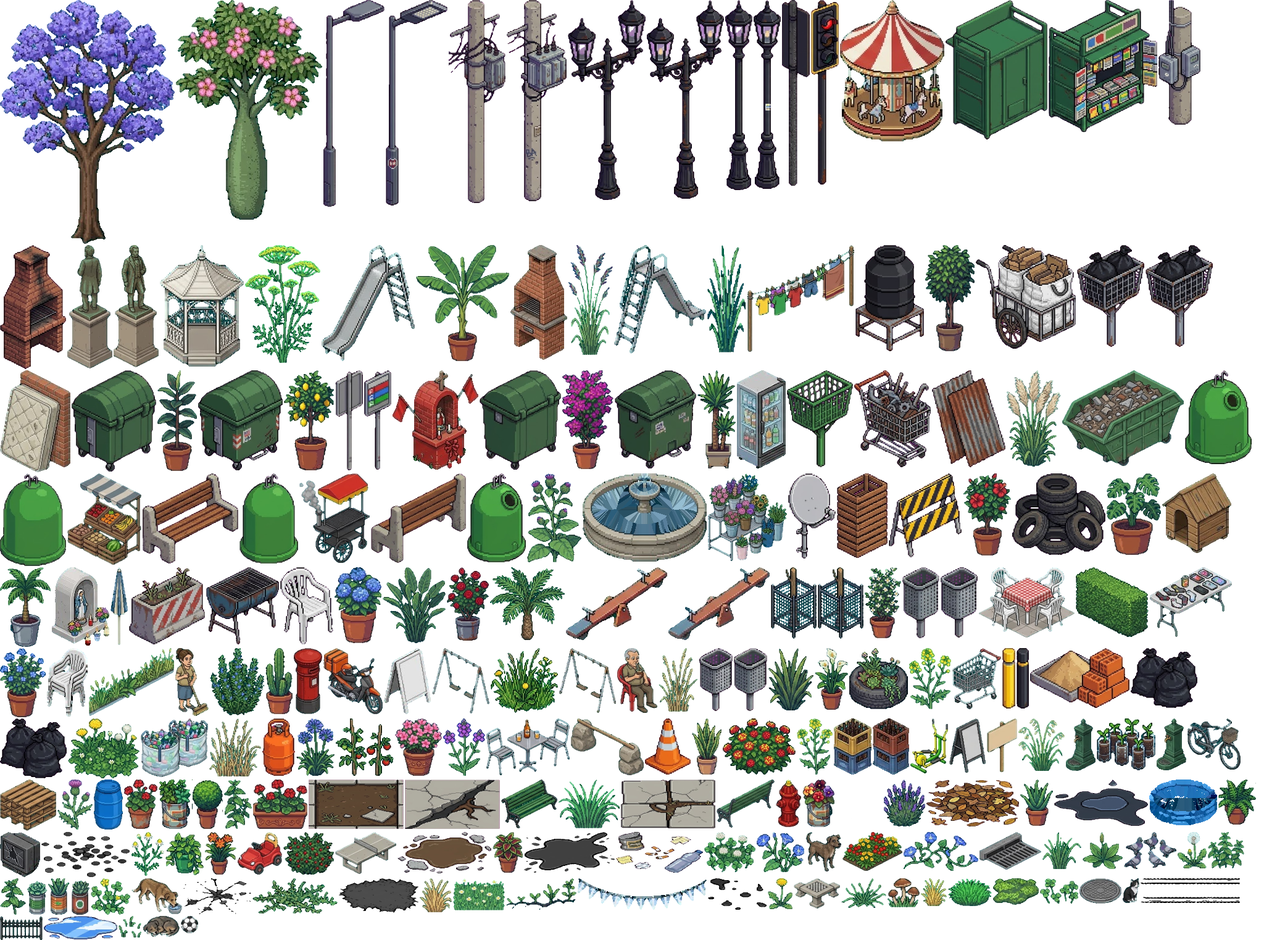
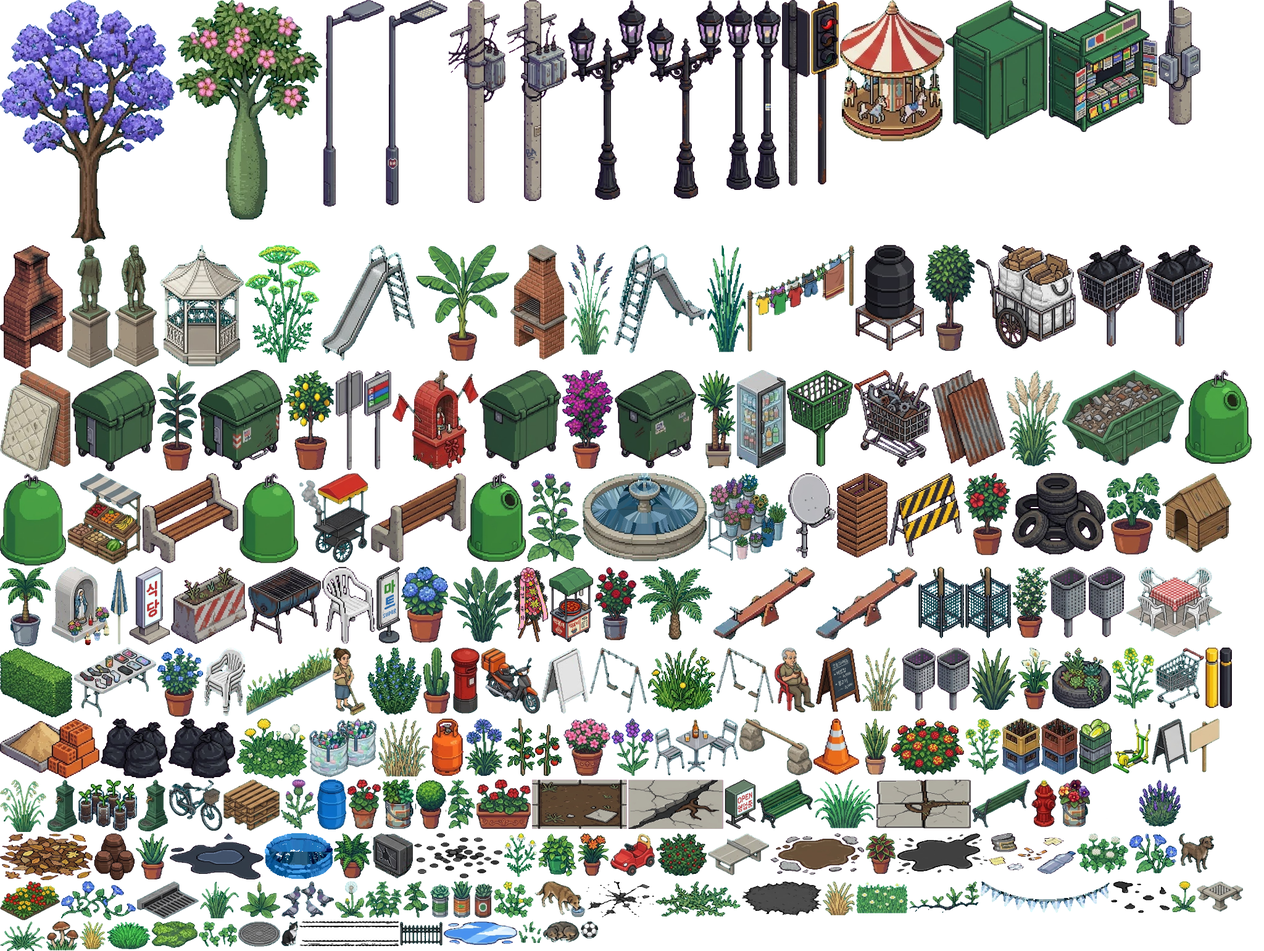
Barrio Coreano: carteles de vereda, pizarras, tinajas de kimchi, repollos, corona de flores y carrito de tteokbokki
Ocho props de Gemini (coreano_01 y coreano_02) frente a los locales coreanos de Av. Carabobo.

Claude-Session: https://claude.ai/code/session_015eL21ADLwrYXVptdMb8b8s

diff --git a/editor/recursos/hd_props.js b/editor/recursos/hd_props.js
@@ -1,2 +1,2 @@
 // props HD (Gemini, limpiados a 30 px/m con herramientas/pixelar.py; armado con herramientas/armar_hd.py)
-const HD_ASSETS = {"escala": 0.6, "frames": {"antena": {"x": 1277, "y": 767, "w": 77, "h": 138, "ox": 38, "oy": 132, "e": 0.173}, "b_arco": {"x": 925, "y": 1164, "w": 118, "h": 92, "ox": 59, "oy": 87, "e": 0.3706}, "b_autito": {"x": 385, "y": 1348, "w": 72, "h": 69, "ox": 36, "oy": 64, "e": 0.3706}, "b_bolsones": {"x": 228, "y": 1164, "w": 109, "h": 95, "ox": 54, "oy": 90, "e": 0.3706}, "b_cartel_vende": {"x": 1599, "y": 1164, "w": 49, "h": 87, "ox": 24, "oy": 82, "e": 0.3706}, "b_chango_vacio": {"x": 1543, "y": 1050, "w": 79, "h": 99, "ox": 39, "oy": 94, "e": 0.3706}, "b_jaula": {"x": 1325, "y": 919, "w": 74, "h": 116, "ox": 37, "oy": 107, "e": 0.2672}, "b_mesa_patio": {"x": 1586, "y": 919, "w": 155, "h": 114, "ox": 77, "oy": 109, "e": 0.3706}, "b_mujer_barre": {"x": 284, "y": 1050, "w": 54, "h": 110, "ox": 27, "oy": 105, "e": 0.3706}, "b_pallets": {"x": 0, "y": 1263, "w": 91, "h": 83, "ox": 45, "oy": 78, "e": 0.3706}, "b_pelota": {"x": 293, "y": 1484, "w": 28, "h": 28, "ox": 14, "oy": 23, "e": 0.3706}, "b_perro_bebe": {"x": 213, "y": 1423, "w": 82, "h": 58, "ox": 41, "oy": 53, "e": 0.3706}, "b_sombrilla": {"x": 179, "y": 919, "w": 28, "h": 126, "ox": 14, "oy": 121, "e": 0.3706}, "b_tacho_azul": {"x": 152, "y": 1263, "w": 47, "h": 81, "ox": 23, "oy": 76, "e": 0.3706}, "b_tendedero": {"x": 1210, "y": 397, "w": 174, "h": 173, "ox": 87, "oy": 168, "e": 0.3706}, "b_viejo_mate": {"x": 1000, "y": 1050, "w": 65, "h": 105, "ox": 32, "oy": 100, "e": 0.3706}, "bolsas_0": {"x": 1832, "y": 1050, "w": 108, "h": 97, "ox": 54, "oy": 88, "e": 0.1635}, "bolsas_1": {"x": 0, "y": 1164, "w": 108, "h": 97, "ox": 54, "oy": 88, "e": 0.1635}, "c_bici": {"x": 1924, "y": 1164, "w": 86, "h": 83, "ox": 43, "oy": 79, "e": 0.4173}, "c_buzon": {"x": 476, "y": 1050, "w": 46, "h": 107, "ox": 23, "oy": 103, "e": 0.4173}, "c_chori": {"x": 485, "y": 767, "w": 114, "h": 145, "ox": 57, "oy": 141, "e": 0.4173}, "c_gato": {"x": 1819, "y": 1423, "w": 27, "h": 40, "ox": 13, "oy": 36, "e": 0.4173}, "c_hidrante": {"x": 1257, "y": 1263, "w": 41, "h": 77, "ox": 20, "oy": 73, "e": 0.4173}, "c_mesa_bar": {"x": 788, "y": 1164, "w": 135, "h": 92, "ox": 67, "oy": 88, "e": 0.4173}, "c_moto": {"x": 524, "y": 1050, "w": 96, "h": 107, "ox": 48, "oy": 103, "e": 0.4173}, "c_palomas": {"x": 1821, "y": 1348, "w": 85, "h": 60, "ox": 42, "oy": 56, "e": 0.4173}, "c_perro": {"x": 1305, "y": 1348, "w": 58, "h": 64, "ox": 29, "oy": 60, "e": 0.4173}, "c_perro_duerme": {"x": 231, "y": 1484, "w": 60, "h": 34, "ox": 30, "oy": 30, "e": 0.4173}, "c_puesto_flores": {"x": 1147, "y": 767, "w": 128, "h": 142, "ox": 64, "oy": 138, "e": 0.4173}, "c_puesto_frutas": {"x": 109, "y": 767, "w": 120, "h": 148, "ox": 60, "oy": 144, "e": 0.4173}, "c_rejilla": {"x": 1587, "y": 1348, "w": 100, "h": 61, "ox": 50, "oy": 57, "e": 0.4173}, "c_tapa": {"x": 1749, "y": 1423, "w": 68, "h": 41, "ox": 34, "oy": 37, "e": 0.4173}, "c_volquete": {"x": 1721, "y": 600, "w": 197, "h": 155, "ox": 98, "oy": 151, "e": 0.4173}, "cajones": {"x": 1356, "y": 767, "w": 82, "h": 137, "ox": 41, "oy": 126, "e": 0.173}, "canasto_0": {"x": 1745, "y": 397, "w": 109, "h": 165, "ox": 54, "oy": 147, "e": 0.1635}, "canasto_1": {"x": 1275, "y": 600, "w": 107, "h": 157, "ox": 53, "oy": 139, "e": 0.1635}, "canasto_2": {"x": 1856, "y": 397, "w": 109, "h": 165, "ox": 54, "oy": 147, "e": 0.1635}, "carro_cartonero": {"x": 1581, "y": 397, "w": 162, "h": 168, "ox": 81, "oy": 159, "e": 0.173}, "chango": {"x": 1384, "y": 600, "w": 124, "h": 157, "ox": 62, "oy": 133, "e": 0.173}, "chapas": {"x": 1510, "y": 600, "w": 119, "h": 157, "ox": 59, "oy": 146, "e": 0.173}, "garrafa": {"x": 425, "y": 1164, "w": 53, "h": 93, "ox": 26, "oy": 84, "e": 0.173}, "gd_aceite": {"x": 849, "y": 1348, "w": 147, "h": 66, "ox": 73, "oy": 33, "e": 0.1469}, "gd_aire": {"x": 1708, "y": 1263, "w": 152, "h": 75, "ox": 76, "oy": 37, "e": 0.0713}, "gd_bache": {"x": 644, "y": 1348, "w": 152, "h": 67, "ox": 76, "oy": 33, "e": 0.1188}, "gd_baldosas_rotas": {"x": 1006, "y": 1263, "w": 153, "h": 79, "ox": 76, "oy": 39, "e": 0.1412}, "gd_basura": {"x": 998, "y": 1348, "w": 141, "h": 66, "ox": 70, "oy": 33, "e": 0.1021}, "gd_charco": {"x": 71, "y": 1484, "w": 119, "h": 38, "ox": 59, "oy": 19, "e": 0.2117}, "gd_chicles": {"x": 67, "y": 1348, "w": 143, "h": 73, "ox": 71, "oy": 36, "e": 0.0758}, "gd_frenada": {"x": 1848, "y": 1423, "w": 161, "h": 40, "ox": 80, "oy": 20, "e": 0.2907}, "gd_gotas": {"x": 1147, "y": 1423, "w": 95, "h": 51, "ox": 47, "oy": 25, "e": 0.0952}, "gd_grietas": {"x": 297, "y": 1423, "w": 110, "h": 58, "ox": 55, "oy": 29, "e": 0.2137}, "gd_hojas": {"x": 1501, "y": 1263, "w": 150, "h": 76, "ox": 75, "oy": 38, "e": 0.096}, "gd_parche": {"x": 549, "y": 1423, "w": 129, "h": 56, "ox": 64, "oy": 28, "e": 0.2233}, "gd_pozo_vereda": {"x": 500, "y": 1263, "w": 154, "h": 80, "ox": 77, "oy": 40, "e": 0.1052}, "gd_raices": {"x": 656, "y": 1263, "w": 154, "h": 80, "ox": 77, "oy": 40, "e": 0.1519}, "gd_rayuela": {"x": 1354, "y": 1263, "w": 76, "h": 77, "ox": 38, "oy": 38, "e": 0.2384}, "gomas": {"x": 1640, "y": 767, "w": 151, "h": 132, "ox": 75, "oy": 105, "e": 0.173}, "k_banderines": {"x": 936, "y": 1423, "w": 209, "h": 51, "ox": 104, "oy": 46, "e": 0.3733}, "k_cajones_botellas": {"x": 1351, "y": 1164, "w": 61, "h": 91, "ox": 30, "oy": 86, "e": 0.3733}, "k_cajones_botellas_b": {"x": 1414, "y": 1164, "w": 59, "h": 91, "ox": 29, "oy": 86, "e": 0.3733}, "k_colchon": {"x": 0, "y": 600, "w": 114, "h": 165, "ox": 57, "oy": 160, "e": 0.3733}, "k_cucha": {"x": 1883, "y": 767, "w": 112, "h": 129, "ox": 56, "oy": 124, "e": 0.3733}, "k_gauchito": {"x": 636, "y": 600, "w": 139, "h": 161, "ox": 69, "oy": 156, "e": 0.3733}, "k_heladera": {"x": 1194, "y": 600, "w": 79, "h": 159, "ox": 39, "oy": 154, "e": 0.3733}, "k_mantero": {"x": 1863, "y": 919, "w": 133, "h": 113, "ox": 66, "oy": 108, "e": 0.3733}, "k_pelopincho": {"x": 1862, "y": 1263, "w": 110, "h": 74, "ox": 55, "oy": 69, "e": 0.3733}, "k_pizarra_helado": {"x": 622, "y": 1050, "w": 76, "h": 107, "ox": 38, "oy": 102, "e": 0.3733}, "k_sillas_pila": {"x": 76, "y": 1050, "w": 66, "h": 111, "ox": 33, "oy": 106, "e": 0.3733}, "k_tele": {"x": 0, "y": 1348, "w": 65, "h": 73, "ox": 32, "oy": 68, "e": 0.3733}, "k_virgen": {"x": 84, "y": 919, "w": 93, "h": 127, "ox": 46, "oy": 122, "e": 0.3733}, "obra_material": {"x": 1669, "y": 1050, "w": 161, "h": 97, "ox": 80, "oy": 88, "e": 0.1635}, "parrilla": {"x": 0, "y": 397, "w": 107, "h": 201, "ox": 53, "oy": 172, "e": 0.1635}, "parrilla_b": {"x": 827, "y": 397, "w": 92, "h": 186, "ox": 46, "oy": 181, "e": 0.3733}, "parrilla_tambor": {"x": 334, "y": 919, "w": 118, "h": 125, "ox": 59, "oy": 108, "e": 0.173}, "pizarra_0": {"x": 1538, "y": 1164, "w": 59, "h": 88, "ox": 29, "oy": 83, "e": 0.3706}, "pl_aloe": {"x": 1653, "y": 1263, "w": 53, "h": 75, "ox": 26, "oy": 67, "e": 0.184}, "pl_azalea": {"x": 640, "y": 1164, "w": 76, "h": 93, "ox": 38, "oy": 82, "e": 0.1834}, "pl_balde": {"x": 257, "y": 1263, "w": 52, "h": 80, "ox": 26, "oy": 72, "e": 0.184}, "pl_begonias": {"x": 1300, "y": 1263, "w": 52, "h": 77, "ox": 26, "oy": 69, "e": 0.1834}, "pl_boj": {"x": 311, "y": 1263, "w": 50, "h": 80, "ox": 25, "oy": 72, "e": 0.184}, "pl_botellas": {"x": 1777, "y": 1164, "w": 95, "h": 84, "ox": 47, "oy": 67, "e": 0.1134}, "pl_cactus": {"x": 430, "y": 1050, "w": 44, "h": 107, "ox": 22, "oy": 99, "e": 0.184}, "pl_calas": {"x": 1320, "y": 1050, "w": 54, "h": 100, "ox": 27, "oy": 92, "e": 0.184}, "pl_clivia": {"x": 332, "y": 1348, "w": 51, "h": 69, "ox": 25, "oy": 61, "e": 0.184}, "pl_coleo": {"x": 798, "y": 1348, "w": 49, "h": 66, "ox": 24, "oy": 58, "e": 0.1834}, "pl_cubierta": {"x": 1376, "y": 1050, "w": 95, "h": 99, "ox": 47, "oy": 76, "e": 0.1431}, "pl_ficus": {"x": 1499, "y": 397, "w": 80, "h": 172, "ox": 40, "oy": 164, "e": 0.184}, "pl_gomero": {"x": 255, "y": 600, "w": 64, "h": 163, "ox": 32, "oy": 150, "e": 0.1834}, "pl_helecho": {"x": 1974, "y": 1263, "w": 61, "h": 73, "ox": 30, "oy": 65, "e": 0.184}, "pl_hibisco": {"x": 1560, "y": 767, "w": 78, "h": 133, "ox": 39, "oy": 120, "e": 0.1834}, "pl_hortensia": {"x": 542, "y": 919, "w": 76, "h": 123, "ox": 38, "oy": 115, "e": 0.184}, "pl_jardinera": {"x": 410, "y": 1263, "w": 88, "h": 80, "ox": 44, "oy": 72, "e": 0.1834}, "pl_jaula": {"x": 1249, "y": 919, "w": 74, "h": 116, "ox": 37, "oy": 107, "e": 0.2672}, "pl_lavanda": {"x": 1432, "y": 1263, "w": 67, "h": 76, "ox": 33, "oy": 68, "e": 0.184}, "pl_ligustrina": {"x": 1743, "y": 919, "w": 118, "h": 113, "ox": 59, "oy": 106, "e": 0.2441}, "pl_limonero": {"x": 460, "y": 600, "w": 81, "h": 162, "ox": 40, "oy": 154, "e": 0.184}, "pl_malvon": {"x": 201, "y": 1263, "w": 54, "h": 80, "ox": 27, "oy": 72, "e": 0.184}, "pl_monstera": {"x": 1793, "y": 767, "w": 88, "h": 132, "ox": 44, "oy": 116, "e": 0.1834}, "pl_palmera": {"x": 0, "y": 919, "w": 82, "h": 129, "ox": 41, "oy": 118, "e": 0.1834}, "pl_potus": {"x": 268, "y": 1348, "w": 62, "h": 70, "ox": 31, "oy": 62, "e": 0.184}, "pl_sansevieria": {"x": 1121, "y": 1164, "w": 48, "h": 91, "ox": 24, "oy": 83, "e": 0.184}, "pl_suculentas": {"x": 44, "y": 1423, "w": 101, "h": 59, "ox": 50, "oy": 53, "e": 0.1834}, "pl_trebol": {"x": 110, "y": 1164, "w": 116, "h": 97, "ox": 58, "oy": 85, "e": 0.1247}, "plm_agapanto": {"x": 480, "y": 1164, "w": 62, "h": 93, "ox": 31, "oy": 85, "e": 0.184}, "plm_banano": {"x": 674, "y": 397, "w": 151, "h": 188, "ox": 75, "oy": 172, "e": 0.1834}, "plm_cortadera": {"x": 1631, "y": 600, "w": 88, "h": 156, "ox": 44, "oy": 135, "e": 0.1834}, "plm_formio": {"x": 1245, "y": 1050, "w": 73, "h": 101, "ox": 36, "oy": 93, "e": 0.184}, "plm_jazmin": {"x": 1401, "y": 919, "w": 59, "h": 115, "ox": 29, "oy": 107, "e": 0.184}, "plm_lantana": {"x": 1171, "y": 1164, "w": 118, "h": 91, "ox": 59, "oy": 73, "e": 0.1891}, "plm_pindo": {"x": 794, "y": 919, "w": 121, "h": 118, "ox": 60, "oy": 103, "e": 0.3821}, "plm_plumbago": {"x": 0, "y": 1050, "w": 74, "h": 112, "ox": 37, "oy": 99, "e": 0.1834}, "plm_romero": {"x": 340, "y": 1050, "w": 88, "h": 109, "ox": 44, "oy": 93, "e": 0.1783}, "plm_rosal": {"x": 724, "y": 919, "w": 68, "h": 119, "ox": 34, "oy": 111, "e": 0.184}, "plm_santarita": {"x": 911, "y": 600, "w": 83, "h": 160, "ox": 41, "oy": 152, "e": 0.184}, "plm_strelitzia": {"x": 620, "y": 919, "w": 102, "h": 123, "ox": 51, "oy": 107, "e": 0.1834}, "plm_tomates": {"x": 544, "y": 1164, "w": 94, "h": 93, "ox": 47, "oy": 83, "e": 0.1895}, "plm_yuca": {"x": 1130, "y": 600, "w": 62, "h": 159, "ox": 31, "oy": 151, "e": 0.184}, "plm_yuyos": {"x": 795, "y": 1050, "w": 109, "h": 105, "ox": 54, "oy": 89, "e": 0.1776}, "pz_ajedrez": {"x": 1286, "y": 1423, "w": 75, "h": 49, "ox": 37, "oy": 45, "e": 0.4349}, "pz_aparato": {"x": 1475, "y": 1164, "w": 61, "h": 89, "ox": 30, "oy": 76, "e": 0.3835}, "pz_banco": {"x": 812, "y": 1263, "w": 91, "h": 79, "ox": 45, "oy": 74, "e": 0.358}, "pz_banco_atras": {"x": 1161, "y": 1263, "w": 94, "h": 78, "ox": 47, "oy": 73, "e": 0.3465}, "pz_bebedero": {"x": 1874, "y": 1164, "w": 48, "h": 84, "ox": 24, "oy": 76, "e": 0.247}, "pz_bebedero_atras": {"x": 1727, "y": 1164, "w": 48, "h": 85, "ox": 24, "oy": 77, "e": 0.2455}, "pz_calesita": {"x": 1361, "y": 0, "w": 169, "h": 229, "ox": 84, "oy": 225, "e": 0.4793}, "pz_cantero": {"x": 1365, "y": 1348, "w": 97, "h": 63, "ox": 48, "oy": 59, "e": 0.4663}, "pz_fuente": {"x": 944, "y": 767, "w": 201, "h": 143, "ox": 100, "oy": 139, "e": 0.403}, "pz_glorieta": {"x": 259, "y": 397, "w": 136, "h": 197, "ox": 68, "oy": 193, "e": 0.4633}, "pz_hamacas": {"x": 906, "y": 1050, "w": 92, "h": 105, "ox": 46, "oy": 90, "e": 0.4872}, "pz_hamacas_atras": {"x": 700, "y": 1050, "w": 93, "h": 106, "ox": 46, "oy": 91, "e": 0.4826}, "pz_jacaranda": {"x": 0, "y": 0, "w": 283, "h": 395, "ox": 141, "oy": 369, "e": 0.3613}, "pz_monumento": {"x": 184, "y": 397, "w": 73, "h": 198, "ox": 36, "oy": 184, "e": 0.5012}, "pz_monumento_atras": {"x": 109, "y": 397, "w": 73, "h": 200, "ox": 36, "oy": 185, "e": 0.4962}, "pz_palo_borracho": {"x": 285, "y": 0, "w": 237, "h": 356, "ox": 118, "oy": 331, "e": 0.379}, "pz_pingpong": {"x": 543, "y": 1348, "w": 99, "h": 68, "ox": 49, "oy": 64, "e": 0.4934}, "pz_reja": {"x": 0, "y": 1484, "w": 69, "h": 39, "ox": 34, "oy": 35, "e": 0.5218}, "pz_subibaja": {"x": 917, "y": 919, "w": 164, "h": 118, "ox": 82, "oy": 113, "e": 0.3293}, "pz_subibaja_atras": {"x": 1083, "y": 919, "w": 164, "h": 118, "ox": 82, "oy": 113, "e": 0.3293}, "pz_tobogan": {"x": 521, "y": 397, "w": 151, "h": 188, "ox": 75, "oy": 183, "e": 0.3576}, "pz_tobogan_atras": {"x": 995, "y": 397, "w": 149, "h": 176, "ox": 74, "oy": 171, "e": 0.3624}, "silla": {"x": 454, "y": 919, "w": 86, "h": 125, "ox": 43, "oy": 111, "e": 0.173}, "u_banco": {"x": 231, "y": 767, "w": 155, "h": 146, "ox": 77, "oy": 139, "e": 0.2304}, "u_banco_atras": {"x": 601, "y": 767, "w": 154, "h": 145, "ox": 77, "oy": 138, "e": 0.2275}, "u_bolardo_amarillo": {"x": 1624, "y": 1050, "w": 21, "h": 98, "ox": 10, "oy": 91, "e": 0.1635}, "u_bolardo_negro": {"x": 1647, "y": 1050, "w": 20, "h": 98, "ox": 10, "oy": 91, "e": 0.1635}, "u_campana": {"x": 1920, "y": 600, "w": 108, "h": 152, "ox": 54, "oy": 126, "e": 0.2304}, "u_campana_atras": {"x": 0, "y": 767, "w": 107, "h": 150, "ox": 53, "oy": 123, "e": 0.2275}, "u_campana_b": {"x": 757, "y": 767, "w": 95, "h": 144, "ox": 47, "oy": 118, "e": 0.2304}, "u_campana_b_atras": {"x": 388, "y": 767, "w": 95, "h": 146, "ox": 47, "oy": 119, "e": 0.2275}, "u_cesto": {"x": 1132, "y": 1050, "w": 55, "h": 102, "ox": 27, "oy": 93, "e": 0.2304}, "u_cesto_atras": {"x": 1189, "y": 1050, "w": 54, "h": 102, "ox": 27, "oy": 93, "e": 0.2275}, "u_cesto_b": {"x": 1524, "y": 919, "w": 60, "h": 114, "ox": 30, "oy": 105, "e": 0.2304}, "u_cesto_b_atras": {"x": 1462, "y": 919, "w": 60, "h": 115, "ox": 30, "oy": 106, "e": 0.2275}, "u_cono": {"x": 1045, "y": 1164, "w": 74, "h": 91, "ox": 37, "oy": 79, "e": 0.1635}, "u_contenedor": {"x": 321, "y": 600, "w": 137, "h": 162, "ox": 68, "oy": 138, "e": 0.2304}, "u_contenedor_atras": {"x": 116, "y": 600, "w": 137, "h": 164, "ox": 68, "oy": 139, "e": 0.2275}, "u_contenedor_b": {"x": 996, "y": 600, "w": 132, "h": 159, "ox": 66, "oy": 135, "e": 0.2304}, "u_contenedor_b_atras": {"x": 777, "y": 600, "w": 132, "h": 161, "ox": 66, "oy": 136, "e": 0.2275}, "u_farol_doble": {"x": 1048, "y": 0, "w": 125, "h": 322, "ox": 62, "oy": 315, "e": 0.223}, "u_farol_doble_atras": {"x": 920, "y": 0, "w": 126, "h": 324, "ox": 63, "oy": 317, "e": 0.2216}, "u_farola": {"x": 625, "y": 0, "w": 100, "h": 333, "ox": 50, "oy": 329, "e": 0.4219}, "u_farola_atras": {"x": 524, "y": 0, "w": 99, "h": 335, "ox": 49, "oy": 331, "e": 0.4188}, "u_farola_orn": {"x": 1221, "y": 0, "w": 44, "h": 306, "ox": 22, "oy": 298, "e": 0.2041}, "u_farola_orn_atras": {"x": 1175, "y": 0, "w": 44, "h": 308, "ox": 22, "oy": 300, "e": 0.2028}, "u_kiosco": {"x": 1699, "y": 0, "w": 176, "h": 214, "ox": 88, "oy": 182, "e": 0.2304}, "u_kiosco_atras": {"x": 1532, "y": 0, "w": 165, "h": 226, "ox": 82, "oy": 193, "e": 0.2275}, "u_macetero": {"x": 209, "y": 919, "w": 123, "h": 125, "ox": 61, "oy": 102, "e": 0.1635}, "u_parada": {"x": 590, "y": 600, "w": 44, "h": 161, "ox": 22, "oy": 158, "e": 0.2304}, "u_parada_atras": {"x": 543, "y": 600, "w": 45, "h": 162, "ox": 22, "oy": 159, "e": 0.2275}, "u_poste_trafo": {"x": 821, "y": 0, "w": 97, "h": 326, "ox": 48, "oy": 321, "e": 0.364}, "u_poste_trafo_atras": {"x": 727, "y": 0, "w": 92, "h": 329, "ox": 46, "oy": 324, "e": 0.3607}, "u_semaforo": {"x": 1314, "y": 0, "w": 45, "h": 299, "ox": 22, "oy": 291, "e": 0.188}, "u_semaforo_atras": {"x": 1267, "y": 0, "w": 45, "h": 301, "ox": 22, "oy": 293, "e": 0.1864}, "u_tablero": {"x": 1877, "y": 0, "w": 68, "h": 202, "ox": 34, "oy": 190, "e": 0.1635}, "u_tanque": {"x": 1386, "y": 397, "w": 111, "h": 172, "ox": 55, "oy": 145, "e": 0.173}, "u_valla": {"x": 1440, "y": 767, "w": 118, "h": 136, "ox": 59, "oy": 118, "e": 0.1635}, "yy_arbusto_bayas": {"x": 459, "y": 1348, "w": 82, "h": 69, "ox": 41, "oy": 62, "e": 0.2103}, "yy_avena": {"x": 1650, "y": 1164, "w": 75, "h": 85, "ox": 37, "oy": 78, "e": 0.2255}, "yy_bardana": {"x": 854, "y": 767, "w": 88, "h": 144, "ox": 44, "oy": 137, "e": 0.2103}, "yy_brotes": {"x": 192, "y": 1484, "w": 37, "h": 35, "ox": 18, "oy": 28, "e": 0.2255}, "yy_campanilla": {"x": 1226, "y": 1348, "w": 77, "h": 65, "ox": 38, "oy": 58, "e": 0.2103}, "yy_campanilla_b": {"x": 1464, "y": 1348, "w": 121, "h": 63, "ox": 60, "oy": 56, "e": 0.2103}, "yy_cardo": {"x": 93, "y": 1263, "w": 57, "h": 81, "ox": 28, "oy": 74, "e": 0.2255}, "yy_cesped_margaritas": {"x": 734, "y": 1423, "w": 84, "h": 52, "ox": 42, "oy": 45, "e": 0.2103}, "yy_cola_zorro": {"x": 1689, "y": 1348, "w": 63, "h": 60, "ox": 31, "oy": 53, "e": 0.2255}, "yy_cordon": {"x": 144, "y": 1050, "w": 138, "h": 110, "ox": 69, "oy": 103, "e": 0.2087}, "yy_diente_leon": {"x": 1244, "y": 1423, "w": 40, "h": 50, "ox": 20, "oy": 43, "e": 0.2255}, "yy_diente_leon_b": {"x": 1908, "y": 1348, "w": 47, "h": 59, "ox": 23, "oy": 52, "e": 0.2255}, "yy_gramilla": {"x": 1363, "y": 1423, "w": 73, "h": 48, "ox": 36, "oy": 41, "e": 0.2255}, "yy_grieta": {"x": 820, "y": 1423, "w": 114, "h": 51, "ox": 57, "oy": 38, "e": 0.111}, "yy_hinojo": {"x": 397, "y": 397, "w": 122, "h": 191, "ox": 61, "oy": 184, "e": 0.2103}, "yy_hongos": {"x": 1438, "y": 1423, "w": 52, "h": 47, "ox": 26, "oy": 40, "e": 0.2103}, "yy_junco": {"x": 1146, "y": 397, "w": 62, "h": 174, "ox": 31, "oy": 167, "e": 0.2103}, "yy_llanten": {"x": 1754, "y": 1348, "w": 65, "h": 60, "ox": 32, "oy": 53, "e": 0.2255}, "yy_manzanilla": {"x": 212, "y": 1348, "w": 54, "h": 71, "ox": 27, "oy": 64, "e": 0.2103}, "yy_mata": {"x": 1536, "y": 1423, "w": 71, "h": 45, "ox": 35, "oy": 38, "e": 0.2103}, "yy_mata_seca": {"x": 680, "y": 1423, "w": 52, "h": 55, "ox": 26, "oy": 48, "e": 0.2103}, "yy_mostacilla": {"x": 1473, "y": 1050, "w": 68, "h": 99, "ox": 34, "oy": 92, "e": 0.2255}, "yy_mostacilla_b": {"x": 1291, "y": 1164, "w": 58, "h": 91, "ox": 29, "oy": 84, "e": 0.2255}, "yy_musgo": {"x": 1609, "y": 1423, "w": 74, "h": 43, "ox": 37, "oy": 36, "e": 0.2255}, "yy_ortiga": {"x": 1957, "y": 1348, "w": 59, "h": 59, "ox": 29, "oy": 52, "e": 0.2255}, "yy_ortiga_b": {"x": 0, "y": 1423, "w": 42, "h": 59, "ox": 21, "oy": 52, "e": 0.2255}, "yy_ortiga_c": {"x": 363, "y": 1263, "w": 45, "h": 80, "ox": 22, "oy": 73, "e": 0.2255}, "yy_pasto_largo": {"x": 905, "y": 1263, "w": 99, "h": 79, "ox": 49, "oy": 72, "e": 0.2103}, "yy_pasto_seco": {"x": 1492, "y": 1423, "w": 42, "h": 45, "ox": 21, "oy": 38, "e": 0.2255}, "yy_rastrera": {"x": 409, "y": 1423, "w": 138, "h": 57, "ox": 69, "oy": 50, "e": 0.2103}, "yy_seco_alto": {"x": 339, "y": 1164, "w": 84, "h": 94, "ox": 42, "oy": 87, "e": 0.2255}, "yy_seco_alto_b": {"x": 1067, "y": 1050, "w": 63, "h": 103, "ox": 31, "oy": 96, "e": 0.2255}, "yy_sorgo": {"x": 921, "y": 397, "w": 72, "h": 178, "ox": 36, "oy": 171, "e": 0.2103}, "yy_trebol": {"x": 1685, "y": 1423, "w": 62, "h": 41, "ox": 31, "oy": 34, "e": 0.2255}, "yy_trebol_blanco": {"x": 1141, "y": 1348, "w": 83, "h": 65, "ox": 41, "oy": 58, "e": 0.2103}, "yy_verbena": {"x": 718, "y": 1164, "w": 68, "h": 93, "ox": 34, "oy": 86, "e": 0.2103}, "yy_vinagrillo": {"x": 147, "y": 1423, "w": 64, "h": 59, "ox": 32, "oy": 52, "e": 0.2103}}};
+const HD_ASSETS = {"escala": 0.6, "frames": {"antena": {"x": 1277, "y": 767, "w": 77, "h": 138, "ox": 38, "oy": 132, "e": 0.173}, "b_arco": {"x": 1198, "y": 1165, "w": 118, "h": 92, "ox": 59, "oy": 87, "e": 0.3706}, "b_autito": {"x": 989, "y": 1351, "w": 72, "h": 69, "ox": 36, "oy": 64, "e": 0.3706}, "b_bolsones": {"x": 501, "y": 1165, "w": 109, "h": 95, "ox": 54, "oy": 90, "e": 0.3706}, "b_cartel_vende": {"x": 1927, "y": 1165, "w": 49, "h": 87, "ox": 24, "oy": 82, "e": 0.3706}, "b_chango_vacio": {"x": 1872, "y": 1050, "w": 79, "h": 99, "ox": 39, "oy": 94, "e": 0.3706}, "b_jaula": {"x": 1564, "y": 919, "w": 74, "h": 116, "ox": 37, "oy": 107, "e": 0.2672}, "b_mesa_patio": {"x": 1825, "y": 919, "w": 155, "h": 114, "ox": 77, "oy": 109, "e": 0.3706}, "b_mujer_barre": {"x": 539, "y": 1050, "w": 54, "h": 110, "ox": 27, "oy": 105, "e": 0.3706}, "b_pallets": {"x": 362, "y": 1264, "w": 91, "h": 83, "ox": 45, "oy": 78, "e": 0.3706}, "b_pelota": {"x": 941, "y": 1494, "w": 28, "h": 28, "ox": 14, "oy": 23, "e": 0.3706}, "b_perro_bebe": {"x": 866, "y": 1429, "w": 82, "h": 58, "ox": 41, "oy": 53, "e": 0.3706}, "b_sombrilla": {"x": 179, "y": 919, "w": 28, "h": 126, "ox": 14, "oy": 121, "e": 0.3706}, "b_tacho_azul": {"x": 514, "y": 1264, "w": 47, "h": 81, "ox": 23, "oy": 76, "e": 0.3706}, "b_tendedero": {"x": 1210, "y": 397, "w": 174, "h": 173, "ox": 87, "oy": 168, "e": 0.3706}, "b_viejo_mate": {"x": 1255, "y": 1050, "w": 65, "h": 105, "ox": 32, "oy": 100, "e": 0.3706}, "bolsas_0": {"x": 163, "y": 1165, "w": 108, "h": 97, "ox": 54, "oy": 88, "e": 0.1635}, "bolsas_1": {"x": 273, "y": 1165, "w": 108, "h": 97, "ox": 54, "oy": 88, "e": 0.1635}, "c_bici": {"x": 274, "y": 1264, "w": 86, "h": 83, "ox": 43, "oy": 79, "e": 0.4173}, "c_buzon": {"x": 731, "y": 1050, "w": 46, "h": 107, "ox": 23, "oy": 103, "e": 0.4173}, "c_chori": {"x": 485, "y": 767, "w": 114, "h": 145, "ox": 57, "oy": 141, "e": 0.4173}, "c_gato": {"x": 456, "y": 1494, "w": 27, "h": 40, "ox": 13, "oy": 36, "e": 0.4173}, "c_hidrante": {"x": 1671, "y": 1264, "w": 41, "h": 77, "ox": 20, "oy": 73, "e": 0.4173}, "c_mesa_bar": {"x": 1061, "y": 1165, "w": 135, "h": 92, "ox": 67, "oy": 88, "e": 0.4173}, "c_moto": {"x": 779, "y": 1050, "w": 96, "h": 107, "ox": 48, "oy": 103, "e": 0.4173}, "c_palomas": {"x": 456, "y": 1429, "w": 85, "h": 60, "ox": 42, "oy": 56, "e": 0.4173}, "c_perro": {"x": 1909, "y": 1351, "w": 58, "h": 64, "ox": 29, "oy": 60, "e": 0.4173}, "c_perro_duerme": {"x": 879, "y": 1494, "w": 60, "h": 34, "ox": 30, "oy": 30, "e": 0.4173}, "c_puesto_flores": {"x": 1147, "y": 767, "w": 128, "h": 142, "ox": 64, "oy": 138, "e": 0.4173}, "c_puesto_frutas": {"x": 109, "y": 767, "w": 120, "h": 148, "ox": 60, "oy": 144, "e": 0.4173}, "c_rejilla": {"x": 222, "y": 1429, "w": 100, "h": 61, "ox": 50, "oy": 57, "e": 0.4173}, "c_tapa": {"x": 386, "y": 1494, "w": 68, "h": 41, "ox": 34, "oy": 37, "e": 0.4173}, "c_volquete": {"x": 1721, "y": 600, "w": 197, "h": 155, "ox": 98, "oy": 151, "e": 0.4173}, "cajones": {"x": 1356, "y": 767, "w": 82, "h": 137, "ox": 41, "oy": 126, "e": 0.173}, "canasto_0": {"x": 1745, "y": 397, "w": 109, "h": 165, "ox": 54, "oy": 147, "e": 0.1635}, "canasto_1": {"x": 1275, "y": 600, "w": 107, "h": 157, "ox": 53, "oy": 139, "e": 0.1635}, "canasto_2": {"x": 1856, "y": 397, "w": 109, "h": 165, "ox": 54, "oy": 147, "e": 0.1635}, "carro_cartonero": {"x": 1581, "y": 397, "w": 162, "h": 168, "ox": 81, "oy": 159, "e": 0.173}, "chango": {"x": 1384, "y": 600, "w": 124, "h": 157, "ox": 62, "oy": 133, "e": 0.173}, "chapas": {"x": 1510, "y": 600, "w": 119, "h": 157, "ox": 59, "oy": 146, "e": 0.173}, "garrafa": {"x": 698, "y": 1165, "w": 53, "h": 93, "ox": 26, "oy": 84, "e": 0.173}, "gd_aceite": {"x": 1453, "y": 1351, "w": 147, "h": 66, "ox": 73, "oy": 33, "e": 0.1469}, "gd_aire": {"x": 275, "y": 1351, "w": 152, "h": 75, "ox": 76, "oy": 37, "e": 0.0713}, "gd_bache": {"x": 1248, "y": 1351, "w": 152, "h": 67, "ox": 76, "oy": 33, "e": 0.1188}, "gd_baldosas_rotas": {"x": 1420, "y": 1264, "w": 153, "h": 79, "ox": 76, "oy": 39, "e": 0.1412}, "gd_basura": {"x": 1602, "y": 1351, "w": 141, "h": 66, "ox": 70, "oy": 33, "e": 0.1021}, "gd_charco": {"x": 719, "y": 1494, "w": 119, "h": 38, "ox": 59, "oy": 19, "e": 0.2117}, "gd_chicles": {"x": 671, "y": 1351, "w": 143, "h": 73, "ox": 71, "oy": 36, "e": 0.0758}, "gd_frenada": {"x": 485, "y": 1494, "w": 161, "h": 40, "ox": 80, "oy": 20, "e": 0.2907}, "gd_gotas": {"x": 1800, "y": 1429, "w": 95, "h": 51, "ox": 47, "oy": 25, "e": 0.0952}, "gd_grietas": {"x": 950, "y": 1429, "w": 110, "h": 58, "ox": 55, "oy": 29, "e": 0.2137}, "gd_hojas": {"x": 0, "y": 1351, "w": 150, "h": 76, "ox": 75, "oy": 38, "e": 0.096}, "gd_parche": {"x": 1202, "y": 1429, "w": 129, "h": 56, "ox": 64, "oy": 28, "e": 0.2233}, "gd_pozo_vereda": {"x": 862, "y": 1264, "w": 154, "h": 80, "ox": 77, "oy": 40, "e": 0.1052}, "gd_raices": {"x": 1018, "y": 1264, "w": 154, "h": 80, "ox": 77, "oy": 40, "e": 0.1519}, "gd_rayuela": {"x": 1768, "y": 1264, "w": 76, "h": 77, "ox": 38, "oy": 38, "e": 0.2384}, "gomas": {"x": 1640, "y": 767, "w": 151, "h": 132, "ox": 75, "oy": 105, "e": 0.173}, "k_banderines": {"x": 1589, "y": 1429, "w": 209, "h": 51, "ox": 104, "oy": 46, "e": 0.3733}, "k_cajones_botellas": {"x": 1624, "y": 1165, "w": 61, "h": 91, "ox": 30, "oy": 86, "e": 0.3733}, "k_cajones_botellas_b": {"x": 1687, "y": 1165, "w": 59, "h": 91, "ox": 29, "oy": 86, "e": 0.3733}, "k_co_banner": {"x": 610, "y": 919, "w": 38, "h": 124, "ox": 19, "oy": 114, "e": 0.2634}, "k_co_carrito": {"x": 890, "y": 919, "w": 71, "h": 122, "ox": 35, "oy": 109, "e": 0.3364}, "k_co_corona": {"x": 832, "y": 919, "w": 56, "h": 122, "ox": 28, "oy": 113, "e": 0.2815}, "k_co_letrero": {"x": 209, "y": 919, "w": 66, "h": 126, "ox": 33, "oy": 115, "e": 0.2783}, "k_co_luz": {"x": 1174, "y": 1264, "w": 50, "h": 80, "ox": 25, "oy": 70, "e": 0.2511}, "k_co_onggi": {"x": 152, "y": 1351, "w": 66, "h": 76, "ox": 33, "oy": 62, "e": 0.3142}, "k_co_pizarra": {"x": 1322, "y": 1050, "w": 72, "h": 104, "ox": 36, "oy": 91, "e": 0.2176}, "k_co_repollos": {"x": 1748, "y": 1165, "w": 53, "h": 90, "ox": 26, "oy": 79, "e": 0.2339}, "k_colchon": {"x": 0, "y": 600, "w": 114, "h": 165, "ox": 57, "oy": 160, "e": 0.3733}, "k_cucha": {"x": 1883, "y": 767, "w": 112, "h": 129, "ox": 56, "oy": 124, "e": 0.3733}, "k_gauchito": {"x": 636, "y": 600, "w": 139, "h": 161, "ox": 69, "oy": 156, "e": 0.3733}, "k_heladera": {"x": 1194, "y": 600, "w": 79, "h": 159, "ox": 39, "oy": 154, "e": 0.3733}, "k_mantero": {"x": 120, "y": 1050, "w": 133, "h": 113, "ox": 66, "oy": 108, "e": 0.3733}, "k_pelopincho": {"x": 429, "y": 1351, "w": 110, "h": 74, "ox": 55, "oy": 69, "e": 0.3733}, "k_pizarra_helado": {"x": 877, "y": 1050, "w": 76, "h": 107, "ox": 38, "oy": 102, "e": 0.3733}, "k_sillas_pila": {"x": 331, "y": 1050, "w": 66, "h": 111, "ox": 33, "oy": 106, "e": 0.3733}, "k_tele": {"x": 604, "y": 1351, "w": 65, "h": 73, "ox": 32, "oy": 68, "e": 0.3733}, "k_virgen": {"x": 84, "y": 919, "w": 93, "h": 127, "ox": 46, "oy": 122, "e": 0.3733}, "obra_material": {"x": 0, "y": 1165, "w": 161, "h": 97, "ox": 80, "oy": 88, "e": 0.1635}, "parrilla": {"x": 0, "y": 397, "w": 107, "h": 201, "ox": 53, "oy": 172, "e": 0.1635}, "parrilla_b": {"x": 827, "y": 397, "w": 92, "h": 186, "ox": 46, "oy": 181, "e": 0.3733}, "parrilla_tambor": {"x": 402, "y": 919, "w": 118, "h": 125, "ox": 59, "oy": 108, "e": 0.173}, "pizarra_0": {"x": 1866, "y": 1165, "w": 59, "h": 88, "ox": 29, "oy": 83, "e": 0.3706}, "pl_aloe": {"x": 220, "y": 1351, "w": 53, "h": 75, "ox": 26, "oy": 67, "e": 0.184}, "pl_azalea": {"x": 913, "y": 1165, "w": 76, "h": 93, "ox": 38, "oy": 82, "e": 0.1834}, "pl_balde": {"x": 619, "y": 1264, "w": 52, "h": 80, "ox": 26, "oy": 72, "e": 0.184}, "pl_begonias": {"x": 1714, "y": 1264, "w": 52, "h": 77, "ox": 26, "oy": 69, "e": 0.1834}, "pl_boj": {"x": 673, "y": 1264, "w": 50, "h": 80, "ox": 25, "oy": 72, "e": 0.184}, "pl_botellas": {"x": 127, "y": 1264, "w": 95, "h": 84, "ox": 47, "oy": 67, "e": 0.1134}, "pl_cactus": {"x": 685, "y": 1050, "w": 44, "h": 107, "ox": 22, "oy": 99, "e": 0.184}, "pl_calas": {"x": 1649, "y": 1050, "w": 54, "h": 100, "ox": 27, "oy": 92, "e": 0.184}, "pl_clivia": {"x": 936, "y": 1351, "w": 51, "h": 69, "ox": 25, "oy": 61, "e": 0.184}, "pl_coleo": {"x": 1402, "y": 1351, "w": 49, "h": 66, "ox": 24, "oy": 58, "e": 0.1834}, "pl_cubierta": {"x": 1705, "y": 1050, "w": 95, "h": 99, "ox": 47, "oy": 76, "e": 0.1431}, "pl_ficus": {"x": 1499, "y": 397, "w": 80, "h": 172, "ox": 40, "oy": 164, "e": 0.184}, "pl_gomero": {"x": 255, "y": 600, "w": 64, "h": 163, "ox": 32, "oy": 150, "e": 0.1834}, "pl_helecho": {"x": 541, "y": 1351, "w": 61, "h": 73, "ox": 30, "oy": 65, "e": 0.184}, "pl_hibisco": {"x": 1560, "y": 767, "w": 78, "h": 133, "ox": 39, "oy": 120, "e": 0.1834}, "pl_hortensia": {"x": 650, "y": 919, "w": 76, "h": 123, "ox": 38, "oy": 115, "e": 0.184}, "pl_jardinera": {"x": 772, "y": 1264, "w": 88, "h": 80, "ox": 44, "oy": 72, "e": 0.1834}, "pl_jaula": {"x": 1488, "y": 919, "w": 74, "h": 116, "ox": 37, "oy": 107, "e": 0.2672}, "pl_lavanda": {"x": 1846, "y": 1264, "w": 67, "h": 76, "ox": 33, "oy": 68, "e": 0.184}, "pl_ligustrina": {"x": 0, "y": 1050, "w": 118, "h": 113, "ox": 59, "oy": 106, "e": 0.2441}, "pl_limonero": {"x": 460, "y": 600, "w": 81, "h": 162, "ox": 40, "oy": 154, "e": 0.184}, "pl_malvon": {"x": 563, "y": 1264, "w": 54, "h": 80, "ox": 27, "oy": 72, "e": 0.184}, "pl_monstera": {"x": 1793, "y": 767, "w": 88, "h": 132, "ox": 44, "oy": 116, "e": 0.1834}, "pl_palmera": {"x": 0, "y": 919, "w": 82, "h": 129, "ox": 41, "oy": 118, "e": 0.1834}, "pl_potus": {"x": 872, "y": 1351, "w": 62, "h": 70, "ox": 31, "oy": 62, "e": 0.184}, "pl_sansevieria": {"x": 1394, "y": 1165, "w": 48, "h": 91, "ox": 24, "oy": 83, "e": 0.184}, "pl_suculentas": {"x": 697, "y": 1429, "w": 101, "h": 59, "ox": 50, "oy": 53, "e": 0.1834}, "pl_trebol": {"x": 383, "y": 1165, "w": 116, "h": 97, "ox": 58, "oy": 85, "e": 0.1247}, "plm_agapanto": {"x": 753, "y": 1165, "w": 62, "h": 93, "ox": 31, "oy": 85, "e": 0.184}, "plm_banano": {"x": 674, "y": 397, "w": 151, "h": 188, "ox": 75, "oy": 172, "e": 0.1834}, "plm_cortadera": {"x": 1631, "y": 600, "w": 88, "h": 156, "ox": 44, "oy": 135, "e": 0.1834}, "plm_formio": {"x": 1574, "y": 1050, "w": 73, "h": 101, "ox": 36, "oy": 93, "e": 0.184}, "plm_jazmin": {"x": 1640, "y": 919, "w": 59, "h": 115, "ox": 29, "oy": 107, "e": 0.184}, "plm_lantana": {"x": 1444, "y": 1165, "w": 118, "h": 91, "ox": 59, "oy": 73, "e": 0.1891}, "plm_pindo": {"x": 1033, "y": 919, "w": 121, "h": 118, "ox": 60, "oy": 103, "e": 0.3821}, "plm_plumbago": {"x": 255, "y": 1050, "w": 74, "h": 112, "ox": 37, "oy": 99, "e": 0.1834}, "plm_romero": {"x": 595, "y": 1050, "w": 88, "h": 109, "ox": 44, "oy": 93, "e": 0.1783}, "plm_rosal": {"x": 963, "y": 919, "w": 68, "h": 119, "ox": 34, "oy": 111, "e": 0.184}, "plm_santarita": {"x": 911, "y": 600, "w": 83, "h": 160, "ox": 41, "oy": 152, "e": 0.184}, "plm_strelitzia": {"x": 728, "y": 919, "w": 102, "h": 123, "ox": 51, "oy": 107, "e": 0.1834}, "plm_tomates": {"x": 817, "y": 1165, "w": 94, "h": 93, "ox": 47, "oy": 83, "e": 0.1895}, "plm_yuca": {"x": 1130, "y": 600, "w": 62, "h": 159, "ox": 31, "oy": 151, "e": 0.184}, "plm_yuyos": {"x": 1050, "y": 1050, "w": 109, "h": 105, "ox": 54, "oy": 89, "e": 0.1776}, "pz_ajedrez": {"x": 1939, "y": 1429, "w": 75, "h": 49, "ox": 37, "oy": 45, "e": 0.4349}, "pz_aparato": {"x": 1803, "y": 1165, "w": 61, "h": 89, "ox": 30, "oy": 76, "e": 0.3835}, "pz_banco": {"x": 1226, "y": 1264, "w": 91, "h": 79, "ox": 45, "oy": 74, "e": 0.358}, "pz_banco_atras": {"x": 1575, "y": 1264, "w": 94, "h": 78, "ox": 47, "oy": 73, "e": 0.3465}, "pz_bebedero": {"x": 224, "y": 1264, "w": 48, "h": 84, "ox": 24, "oy": 76, "e": 0.247}, "pz_bebedero_atras": {"x": 77, "y": 1264, "w": 48, "h": 85, "ox": 24, "oy": 77, "e": 0.2455}, "pz_calesita": {"x": 1361, "y": 0, "w": 169, "h": 229, "ox": 84, "oy": 225, "e": 0.4793}, "pz_cantero": {"x": 0, "y": 1429, "w": 97, "h": 63, "ox": 48, "oy": 59, "e": 0.4663}, "pz_fuente": {"x": 944, "y": 767, "w": 201, "h": 143, "ox": 100, "oy": 139, "e": 0.403}, "pz_glorieta": {"x": 259, "y": 397, "w": 136, "h": 197, "ox": 68, "oy": 193, "e": 0.4633}, "pz_hamacas": {"x": 1161, "y": 1050, "w": 92, "h": 105, "ox": 46, "oy": 90, "e": 0.4872}, "pz_hamacas_atras": {"x": 955, "y": 1050, "w": 93, "h": 106, "ox": 46, "oy": 91, "e": 0.4826}, "pz_jacaranda": {"x": 0, "y": 0, "w": 283, "h": 395, "ox": 141, "oy": 369, "e": 0.3613}, "pz_monumento": {"x": 184, "y": 397, "w": 73, "h": 198, "ox": 36, "oy": 184, "e": 0.5012}, "pz_monumento_atras": {"x": 109, "y": 397, "w": 73, "h": 200, "ox": 36, "oy": 185, "e": 0.4962}, "pz_palo_borracho": {"x": 285, "y": 0, "w": 237, "h": 356, "ox": 118, "oy": 331, "e": 0.379}, "pz_pingpong": {"x": 1147, "y": 1351, "w": 99, "h": 68, "ox": 49, "oy": 64, "e": 0.4934}, "pz_reja": {"x": 648, "y": 1494, "w": 69, "h": 39, "ox": 34, "oy": 35, "e": 0.5218}, "pz_subibaja": {"x": 1156, "y": 919, "w": 164, "h": 118, "ox": 82, "oy": 113, "e": 0.3293}, "pz_subibaja_atras": {"x": 1322, "y": 919, "w": 164, "h": 118, "ox": 82, "oy": 113, "e": 0.3293}, "pz_tobogan": {"x": 521, "y": 397, "w": 151, "h": 188, "ox": 75, "oy": 183, "e": 0.3576}, "pz_tobogan_atras": {"x": 995, "y": 397, "w": 149, "h": 176, "ox": 74, "oy": 171, "e": 0.3624}, "silla": {"x": 522, "y": 919, "w": 86, "h": 125, "ox": 43, "oy": 111, "e": 0.173}, "u_banco": {"x": 231, "y": 767, "w": 155, "h": 146, "ox": 77, "oy": 139, "e": 0.2304}, "u_banco_atras": {"x": 601, "y": 767, "w": 154, "h": 145, "ox": 77, "oy": 138, "e": 0.2275}, "u_bolardo_amarillo": {"x": 1953, "y": 1050, "w": 21, "h": 98, "ox": 10, "oy": 91, "e": 0.1635}, "u_bolardo_negro": {"x": 1976, "y": 1050, "w": 20, "h": 98, "ox": 10, "oy": 91, "e": 0.1635}, "u_campana": {"x": 1920, "y": 600, "w": 108, "h": 152, "ox": 54, "oy": 126, "e": 0.2304}, "u_campana_atras": {"x": 0, "y": 767, "w": 107, "h": 150, "ox": 53, "oy": 123, "e": 0.2275}, "u_campana_b": {"x": 757, "y": 767, "w": 95, "h": 144, "ox": 47, "oy": 118, "e": 0.2304}, "u_campana_b_atras": {"x": 388, "y": 767, "w": 95, "h": 146, "ox": 47, "oy": 119, "e": 0.2275}, "u_cesto": {"x": 1461, "y": 1050, "w": 55, "h": 102, "ox": 27, "oy": 93, "e": 0.2304}, "u_cesto_atras": {"x": 1518, "y": 1050, "w": 54, "h": 102, "ox": 27, "oy": 93, "e": 0.2275}, "u_cesto_b": {"x": 1763, "y": 919, "w": 60, "h": 114, "ox": 30, "oy": 105, "e": 0.2304}, "u_cesto_b_atras": {"x": 1701, "y": 919, "w": 60, "h": 115, "ox": 30, "oy": 106, "e": 0.2275}, "u_cono": {"x": 1318, "y": 1165, "w": 74, "h": 91, "ox": 37, "oy": 79, "e": 0.1635}, "u_contenedor": {"x": 321, "y": 600, "w": 137, "h": 162, "ox": 68, "oy": 138, "e": 0.2304}, "u_contenedor_atras": {"x": 116, "y": 600, "w": 137, "h": 164, "ox": 68, "oy": 139, "e": 0.2275}, "u_contenedor_b": {"x": 996, "y": 600, "w": 132, "h": 159, "ox": 66, "oy": 135, "e": 0.2304}, "u_contenedor_b_atras": {"x": 777, "y": 600, "w": 132, "h": 161, "ox": 66, "oy": 136, "e": 0.2275}, "u_farol_doble": {"x": 1048, "y": 0, "w": 125, "h": 322, "ox": 62, "oy": 315, "e": 0.223}, "u_farol_doble_atras": {"x": 920, "y": 0, "w": 126, "h": 324, "ox": 63, "oy": 317, "e": 0.2216}, "u_farola": {"x": 625, "y": 0, "w": 100, "h": 333, "ox": 50, "oy": 329, "e": 0.4219}, "u_farola_atras": {"x": 524, "y": 0, "w": 99, "h": 335, "ox": 49, "oy": 331, "e": 0.4188}, "u_farola_orn": {"x": 1221, "y": 0, "w": 44, "h": 306, "ox": 22, "oy": 298, "e": 0.2041}, "u_farola_orn_atras": {"x": 1175, "y": 0, "w": 44, "h": 308, "ox": 22, "oy": 300, "e": 0.2028}, "u_kiosco": {"x": 1699, "y": 0, "w": 176, "h": 214, "ox": 88, "oy": 182, "e": 0.2304}, "u_kiosco_atras": {"x": 1532, "y": 0, "w": 165, "h": 226, "ox": 82, "oy": 193, "e": 0.2275}, "u_macetero": {"x": 277, "y": 919, "w": 123, "h": 125, "ox": 61, "oy": 102, "e": 0.1635}, "u_parada": {"x": 590, "y": 600, "w": 44, "h": 161, "ox": 22, "oy": 158, "e": 0.2304}, "u_parada_atras": {"x": 543, "y": 600, "w": 45, "h": 162, "ox": 22, "oy": 159, "e": 0.2275}, "u_poste_trafo": {"x": 821, "y": 0, "w": 97, "h": 326, "ox": 48, "oy": 321, "e": 0.364}, "u_poste_trafo_atras": {"x": 727, "y": 0, "w": 92, "h": 329, "ox": 46, "oy": 324, "e": 0.3607}, "u_semaforo": {"x": 1314, "y": 0, "w": 45, "h": 299, "ox": 22, "oy": 291, "e": 0.188}, "u_semaforo_atras": {"x": 1267, "y": 0, "w": 45, "h": 301, "ox": 22, "oy": 293, "e": 0.1864}, "u_tablero": {"x": 1877, "y": 0, "w": 68, "h": 202, "ox": 34, "oy": 190, "e": 0.1635}, "u_tanque": {"x": 1386, "y": 397, "w": 111, "h": 172, "ox": 55, "oy": 145, "e": 0.173}, "u_valla": {"x": 1440, "y": 767, "w": 118, "h": 136, "ox": 59, "oy": 118, "e": 0.1635}, "yy_arbusto_bayas": {"x": 1063, "y": 1351, "w": 82, "h": 69, "ox": 41, "oy": 62, "e": 0.2103}, "yy_avena": {"x": 0, "y": 1264, "w": 75, "h": 85, "ox": 37, "oy": 78, "e": 0.2255}, "yy_bardana": {"x": 854, "y": 767, "w": 88, "h": 144, "ox": 44, "oy": 137, "e": 0.2103}, "yy_brotes": {"x": 840, "y": 1494, "w": 37, "h": 35, "ox": 18, "oy": 28, "e": 0.2255}, "yy_campanilla": {"x": 1830, "y": 1351, "w": 77, "h": 65, "ox": 38, "oy": 58, "e": 0.2103}, "yy_campanilla_b": {"x": 99, "y": 1429, "w": 121, "h": 63, "ox": 60, "oy": 56, "e": 0.2103}, "yy_cardo": {"x": 455, "y": 1264, "w": 57, "h": 81, "ox": 28, "oy": 74, "e": 0.2255}, "yy_cesped_margaritas": {"x": 1387, "y": 1429, "w": 84, "h": 52, "ox": 42, "oy": 45, "e": 0.2103}, "yy_cola_zorro": {"x": 324, "y": 1429, "w": 63, "h": 60, "ox": 31, "oy": 53, "e": 0.2255}, "yy_cordon": {"x": 399, "y": 1050, "w": 138, "h": 110, "ox": 69, "oy": 103, "e": 0.2087}, "yy_diente_leon": {"x": 1897, "y": 1429, "w": 40, "h": 50, "ox": 20, "oy": 43, "e": 0.2255}, "yy_diente_leon_b": {"x": 543, "y": 1429, "w": 47, "h": 59, "ox": 23, "oy": 52, "e": 0.2255}, "yy_gramilla": {"x": 0, "y": 1494, "w": 73, "h": 48, "ox": 36, "oy": 41, "e": 0.2255}, "yy_grieta": {"x": 1473, "y": 1429, "w": 114, "h": 51, "ox": 57, "oy": 38, "e": 0.111}, "yy_hinojo": {"x": 397, "y": 397, "w": 122, "h": 191, "ox": 61, "oy": 184, "e": 0.2103}, "yy_hongos": {"x": 75, "y": 1494, "w": 52, "h": 47, "ox": 26, "oy": 40, "e": 0.2103}, "yy_junco": {"x": 1146, "y": 397, "w": 62, "h": 174, "ox": 31, "oy": 167, "e": 0.2103}, "yy_llanten": {"x": 389, "y": 1429, "w": 65, "h": 60, "ox": 32, "oy": 53, "e": 0.2255}, "yy_manzanilla": {"x": 816, "y": 1351, "w": 54, "h": 71, "ox": 27, "oy": 64, "e": 0.2103}, "yy_mata": {"x": 173, "y": 1494, "w": 71, "h": 45, "ox": 35, "oy": 38, "e": 0.2103}, "yy_mata_seca": {"x": 1333, "y": 1429, "w": 52, "h": 55, "ox": 26, "oy": 48, "e": 0.2103}, "yy_mostacilla": {"x": 1802, "y": 1050, "w": 68, "h": 99, "ox": 34, "oy": 92, "e": 0.2255}, "yy_mostacilla_b": {"x": 1564, "y": 1165, "w": 58, "h": 91, "ox": 29, "oy": 84, "e": 0.2255}, "yy_musgo": {"x": 246, "y": 1494, "w": 74, "h": 43, "ox": 37, "oy": 36, "e": 0.2255}, "yy_ortiga": {"x": 592, "y": 1429, "w": 59, "h": 59, "ox": 29, "oy": 52, "e": 0.2255}, "yy_ortiga_b": {"x": 653, "y": 1429, "w": 42, "h": 59, "ox": 21, "oy": 52, "e": 0.2255}, "yy_ortiga_c": {"x": 725, "y": 1264, "w": 45, "h": 80, "ox": 22, "oy": 73, "e": 0.2255}, "yy_pasto_largo": {"x": 1319, "y": 1264, "w": 99, "h": 79, "ox": 49, "oy": 72, "e": 0.2103}, "yy_pasto_seco": {"x": 129, "y": 1494, "w": 42, "h": 45, "ox": 21, "oy": 38, "e": 0.2255}, "yy_rastrera": {"x": 1062, "y": 1429, "w": 138, "h": 57, "ox": 69, "oy": 50, "e": 0.2103}, "yy_seco_alto": {"x": 612, "y": 1165, "w": 84, "h": 94, "ox": 42, "oy": 87, "e": 0.2255}, "yy_seco_alto_b": {"x": 1396, "y": 1050, "w": 63, "h": 103, "ox": 31, "oy": 96, "e": 0.2255}, "yy_sorgo": {"x": 921, "y": 397, "w": 72, "h": 178, "ox": 36, "oy": 171, "e": 0.2103}, "yy_trebol": {"x": 322, "y": 1494, "w": 62, "h": 41, "ox": 31, "oy": 34, "e": 0.2255}, "yy_trebol_blanco": {"x": 1745, "y": 1351, "w": 83, "h": 65, "ox": 41, "oy": 58, "e": 0.2103}, "yy_verbena": {"x": 991, "y": 1165, "w": 68, "h": 93, "ox": 34, "oy": 86, "e": 0.2103}, "yy_vinagrillo": {"x": 800, "y": 1429, "w": 64, "h": 59, "ox": 32, "oy": 52, "e": 0.2103}}};
